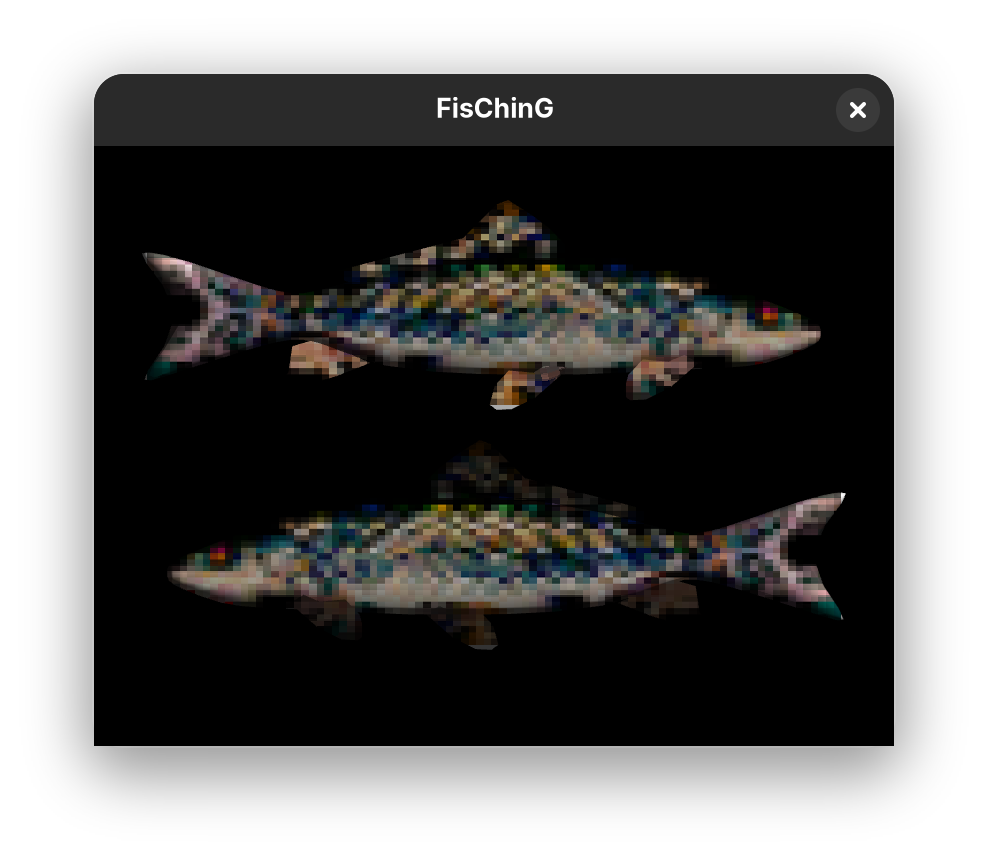
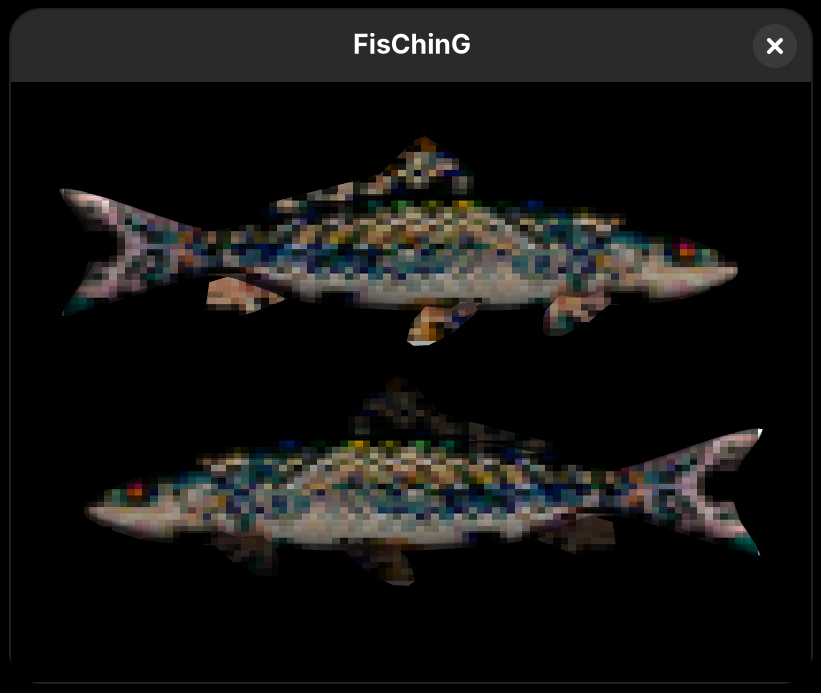
Tappa03?

diff --git a/Tappa03/main.cpp b/Tappa03/main.cpp
@@ -18,12 +18,6 @@
 #include "../include/hotshaders.hh"
 #include "../include/model.hh"
 
-struct Entity
-{
-	Model* model;
-	glm::mat4 transform;
-};
-
 class Setup
 {
 	public:
@@ -71,6 +65,29 @@ class Setup
 		}
 };
 
+class ResourcesManager
+{
+	private:
+		std::string dirname="resources/";
+		std::unordered_map<std::string, Model*> models;
+
+	public:
+		Model& loadModel(const std::string& objName, const std::string& textureName)
+		{
+			auto model_iterator=models.find(objName);
+			if(model_iterator!=models.end()) return *(model_iterator->second);
+
+			Model* model=new Model(dirname+objName, dirname+textureName);
+			models[objName]=model;
+			return *model;
+		}
+
+		~ResourcesManager()
+		{
+			for(auto& [name, model]:models) delete model;
+		}
+};
+
 class Camera
 {
 	public:
@@ -105,11 +122,17 @@ class Camera
 		}
 };
 
+struct Entity
+{
+	const Model* model;
+	glm::mat4 transform;
+};
+
 class Scene
 {
-	public:
-		std::vector<Entity> entities;
 	private:
+		std::unordered_map<std::string, Entity> entities;
+		
 		GLint transform_loc;
 		GLint view_projection_loc;
 
@@ -117,46 +140,35 @@ class Scene
 		// constructor
 		Scene(Shaders& shaders)
 		{
-			glUniform1i(glGetUniformLocation(shaders.program, "tex"), 0);
-
 			transform_loc=glGetUniformLocation(shaders.program, "transform");
 			view_projection_loc=glGetUniformLocation(shaders.program, "view_projection");
 		}
 
-		// add entities
-		void addEntity(const std::string& objPath, const std::string& texturePath, glm::mat4 transform)
+		// add entity
+		void addEntity(const std::string& entityName, const Model& model, glm::mat4 transform)
 		{
-			Model* model=new Model(objPath, texturePath);
-			entities.push_back({model, transform});
-		}
-		void addEntity(Model& model, glm::mat4 transform)
-		{
-			entities.push_back({&model, transform});
-		}
-
-		// to add all needed entities
-		void fill()
-		{
-			addEntity("resources/sky.obj", "resources/god.png", glm::mat4(1.0f));
-			addEntity("resources/lake.obj", "resources/lake.png", glm::mat4(1.0f));
+			entities[entityName]=Entity({&model, transform});
 		}
 
 		// draw
-		void draw(Camera& camera)
+		void draw(Camera& camera) const
 		{
-			for(Entity& entity:entities)
+			glEnable(GL_DEPTH_TEST);
+
+			for(const auto& [name, entity]:entities)
 			{
 				glUniformMatrix4fv(transform_loc, 1, GL_FALSE, glm::value_ptr(entity.transform));
 				glUniformMatrix4fv(view_projection_loc, 1, GL_FALSE, glm::value_ptr(camera.view_projection_matrix));
 				entity.model->draw();
 			}
 		}
-
-		~Scene()
-		{
-			entities.clear();
-		}
 };
+
+void loadScene(ResourcesManager& resources, Scene& scene)
+{
+	scene.addEntity("sky", resources.loadModel("sky.obj", "god.png"), glm::mat4(1.0f));
+	scene.addEntity("lake", resources.loadModel("lake.obj", "lake.png"), glm::mat4(1.0f));
+}
 
 int main()
 {
@@ -168,9 +180,10 @@ int main()
 	Shaders shaders("Tappa03/vertex.vert", "Tappa03/fragment.frag");
 	glUseProgram(shaders.program);
 
-	// creating the scene
+	// resources and scene setup
+	ResourcesManager resources;
 	Scene scene(shaders);
-	scene.fill();
+	loadScene(resources, scene);
 
 	Camera camera(glm::vec3(0.0f, 0.4f, -2.4f), 0.0f, 5.0f, window.getSize().x, window.getSize().y);
 
@@ -180,12 +193,13 @@ int main()
 	bool running=true;
 	while(running)
 	{
+		// event handling
 		while(const std::optional event=window.pollEvent())
 		{
-			if(event->is<sf::Event::Closed>()) running=false;
-			else if(const auto* resized = event->getIf<sf::Event::Resized>())
+			if(event->is<sf::Event::Closed>()) window.close();
+			else if(const auto* resized=event->getIf<sf::Event::Resized>())
 			{
-				glViewport (0, 0, resized->size.x, resized->size.y);
+				glViewport(0, 0, resized->size.x, resized->size.y);
 				camera.updateProjection(resized->size.x, resized->size.y);
 			}
 		}

diff --git a/Tappa02/main.cpp b/Tappa02/main.cpp
@@ -97,7 +97,7 @@ class Scene
 {
 	private:
 		std::unordered_map<std::string, Entity> entities;
-		
+
 		GLint transform_loc;
 
 	public:
@@ -150,7 +150,6 @@ int main()
 	// shaders
 	Shaders shaders("Tappa02/vertex.vert", "Tappa02/fragment.frag");
 	glUseProgram(shaders.program);
-	glUniform1i(glGetUniformLocation(shaders.program, "tex"), 0);
 
 	// resources and scene setup
 	ResourcesManager resources;
